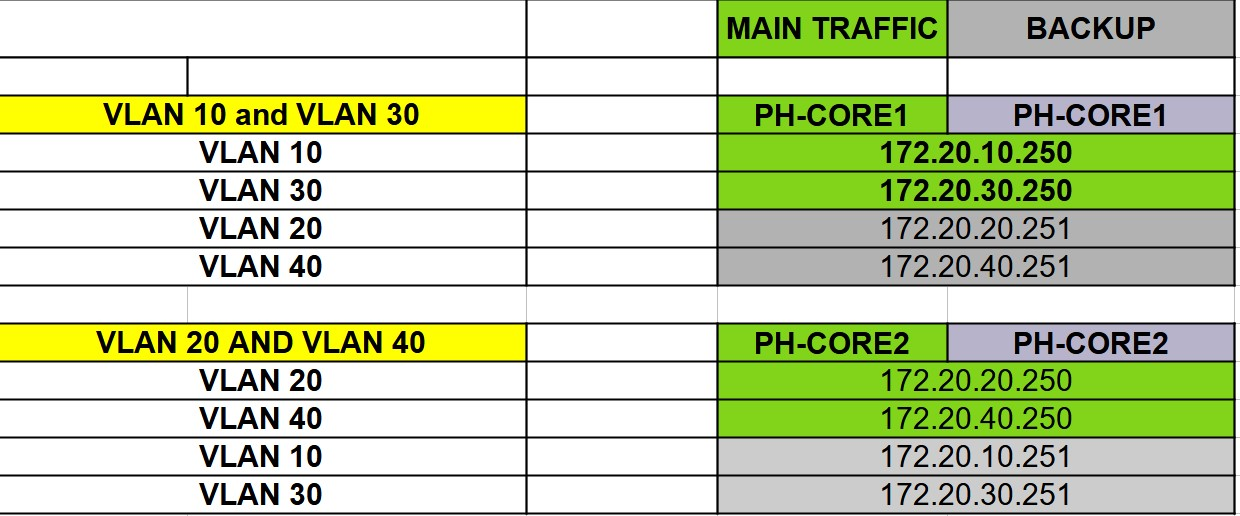
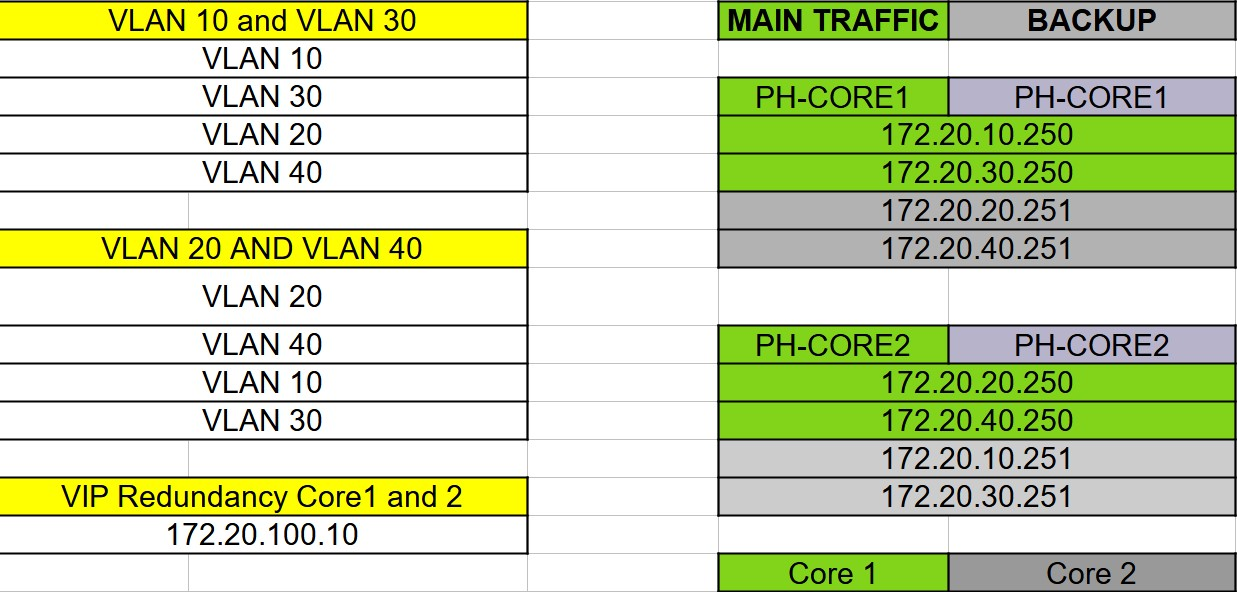
Add files via upload

diff --git a/lab2/index.html b/lab2/index.html
@@ -660,115 +660,19 @@
 
   <h1>Lab 2 (Not Finish)</h1>
 
-<p><img alt="Profile2" src="../images/test.jpg" /></p>
+<p><img alt="Profile2" src="../images/test.jpg" width="750" /></p>
+<div class="admonition note">
+<p class="admonition-title">Note</p>
+<p>In this lab, I use Cisco images that only support Ethernet speed because I need a lightweight option to build the lab. However, whether you're going to build this lab physically or virtually, it's going to be the same.</p>
+</div>
 <h2 id="lab-connectivity-and-addresses"><strong>Lab Connectivity and Addresses</strong></h2>
-<table>
-<thead>
-<tr>
-<th style="text-align: center;">Subnets and VLANS</th>
-<th style="text-align: center;"></th>
-<th></th>
-<th style="text-align: center;">Virtual IP Default Gateway</th>
-</tr>
-</thead>
-<tbody>
-<tr>
-<td style="text-align: center;">VLAN 10</td>
-<td style="text-align: center;">172.20.10.1 – 172.20.10.253</td>
-<td></td>
-<td style="text-align: center;">172.20.10.254</td>
-</tr>
-<tr>
-<td style="text-align: center;">VLAN 20</td>
-<td style="text-align: center;">172.20.20.1 – 172.20.20.253</td>
-<td></td>
-<td style="text-align: center;">172.20.20.254</td>
-</tr>
-<tr>
-<td style="text-align: center;">VLAN 30</td>
-<td style="text-align: center;">172.20.30.1 – 172.20.30.253</td>
-<td></td>
-<td style="text-align: center;">172.20.30.254</td>
-</tr>
-<tr>
-<td style="text-align: center;">VLAN 40</td>
-<td style="text-align: center;">172.20.40.1 – 172.20.40.253</td>
-<td></td>
-<td style="text-align: center;">172.20.40.254</td>
-</tr>
-</tbody>
-</table>
-<table>
-<thead>
-<tr>
-<th style="text-align: center;">Device</th>
-<th></th>
-<th style="text-align: center;">Network</th>
-</tr>
-</thead>
-<tbody>
-<tr>
-<td style="text-align: center;">Server</td>
-<td></td>
-<td style="text-align: center;">172.20.100.0/24</td>
-</tr>
-<tr>
-<td style="text-align: center;">Core1 IP</td>
-<td></td>
-<td style="text-align: center;">1.1.1.1/32</td>
-</tr>
-<tr>
-<td style="text-align: center;">Core2 IP</td>
-<td></td>
-<td style="text-align: center;">2.2.2.2/32</td>
-</tr>
-</tbody>
-</table>
+<p><img alt="pic_subnets" src="../images/vlans.jpg" width="700" /></p>
+<p><img alt="pic_subnets" src="../images/vlans2.jpg" width="700" /></p>
 <h2 id="redundancy-and-load-balance"><strong>Redundancy and Load Balance</strong></h2>
 <p><img alt="Pic_redundant" src="../images/redundancy.jpg" /></p>
 <h2 id="interface-connection"><strong>Interface Connection</strong></h2>
-<table>
-<thead>
-<tr>
-<th style="text-align: center;">Device 1</th>
-<th></th>
-<th style="text-align: center;">Device 2</th>
-<th></th>
-<th style="text-align: center;">Device 1 Link</th>
-<th></th>
-<th style="text-align: center;">Device 2 Link</th>
-</tr>
-</thead>
-<tbody>
-<tr>
-<td style="text-align: center;">PH-CORE1</td>
-<td></td>
-<td style="text-align: center;">PH-ACC-1</td>
-<td></td>
-<td style="text-align: center;">Ethernet 0/0</td>
-<td></td>
-<td style="text-align: center;">Ethernet 0/0</td>
-</tr>
-<tr>
-<td style="text-align: center;">PH-CORE2</td>
-<td></td>
-<td style="text-align: center;">PH-ACC-1</td>
-<td></td>
-<td style="text-align: center;">Ethernet 0/0</td>
-<td></td>
-<td style="text-align: center;">Ethernet 0/1</td>
-</tr>
-<tr>
-<td style="text-align: center;">PH-CORE1</td>
-<td></td>
-<td style="text-align: center;">PH-ACC-2</td>
-<td></td>
-<td style="text-align: center;">Ethernet 0/1</td>
-<td></td>
-<td style="text-align: center;">Ethernet 0/0</td>
-</tr>
-</tbody>
-</table>
+<p><img alt="pic_interface" src="../images/interface.jpg" width="700" />
+<img alt="pic_interface" src="../images/pc_connection.jpg" width="700" /></p>
 
 
 

diff --git a/index.html b/index.html
@@ -399,6 +399,15 @@
 </li>
       
         <li class="md-nav__item">
+  <a href="#network-labs" class="md-nav__link">
+    <span class="md-ellipsis">
+      Network Labs
+    </span>
+  </a>
+  
+</li>
+      
+        <li class="md-nav__item">
   <a href="#current-goals" class="md-nav__link">
     <span class="md-ellipsis">
       Current Goals
@@ -671,6 +680,11 @@
 <li>Computer Troubleshoot</li>
 <li>Fortinet</li>
 </ul>
+<h2 id="network-labs"><strong>Network Labs</strong></h2>
+<ol>
+<li><a href="inter-vlan/">Layer 3 Switch Inter-VLAN with DHCP and NAT</a></li>
+<li><a href="lab2/">Lab 2 (On the process)</a></li>
+</ol>
 <h2 id="current-goals"><strong>Current Goals</strong></h2>
 <ul class="task-list">
 <li class="task-list-item"><label class="task-list-control"><input type="checkbox" disabled checked/><span class="task-list-indicator"></span></label> Hardening my skills</li>
